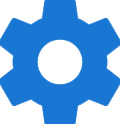
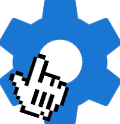
Updates

Changed region(s): [[0.05, 0.4113, 0.575, 0.9919]]

diff --git a/Readme.md b/Readme.md
@@ -1,1 +1,11 @@
-# ...
+-- - (4) Mostrar como gerar no github os posts e mostrar o problema
+-- - Talvez não precise da pergunta do porque do painel
+OK - (10) Deixar o mouse pointer em cima do icone com o hover
+OK - (14) Tirar o before, e deixar direto no conteúdo (fazer a sacada do orkut)
+- Mostrar como pegar o SVG
+OK - (24) Mostrar mais código com o scroll.
+-- - E se eu colocar o ícone em svg em outro lugar do site?
+-- - (26) Mostrar o icone mexendo o background (explicar como mostra pra fazer as sprites no photoshop com o designer), Fazer com duas linhas de icones mostrando a troca de posição dos sprites http://lea.verou.me/more-css-secrets/#intro
+-- - Selecionar os icones em forma trocada na hora da font
+-- - (34) Mostrar o que é uma font antes de mostrar que eu gero os SVGs
+-- - Falar que em todo lugar é dificil achar o icone para chamar os SVGs.
